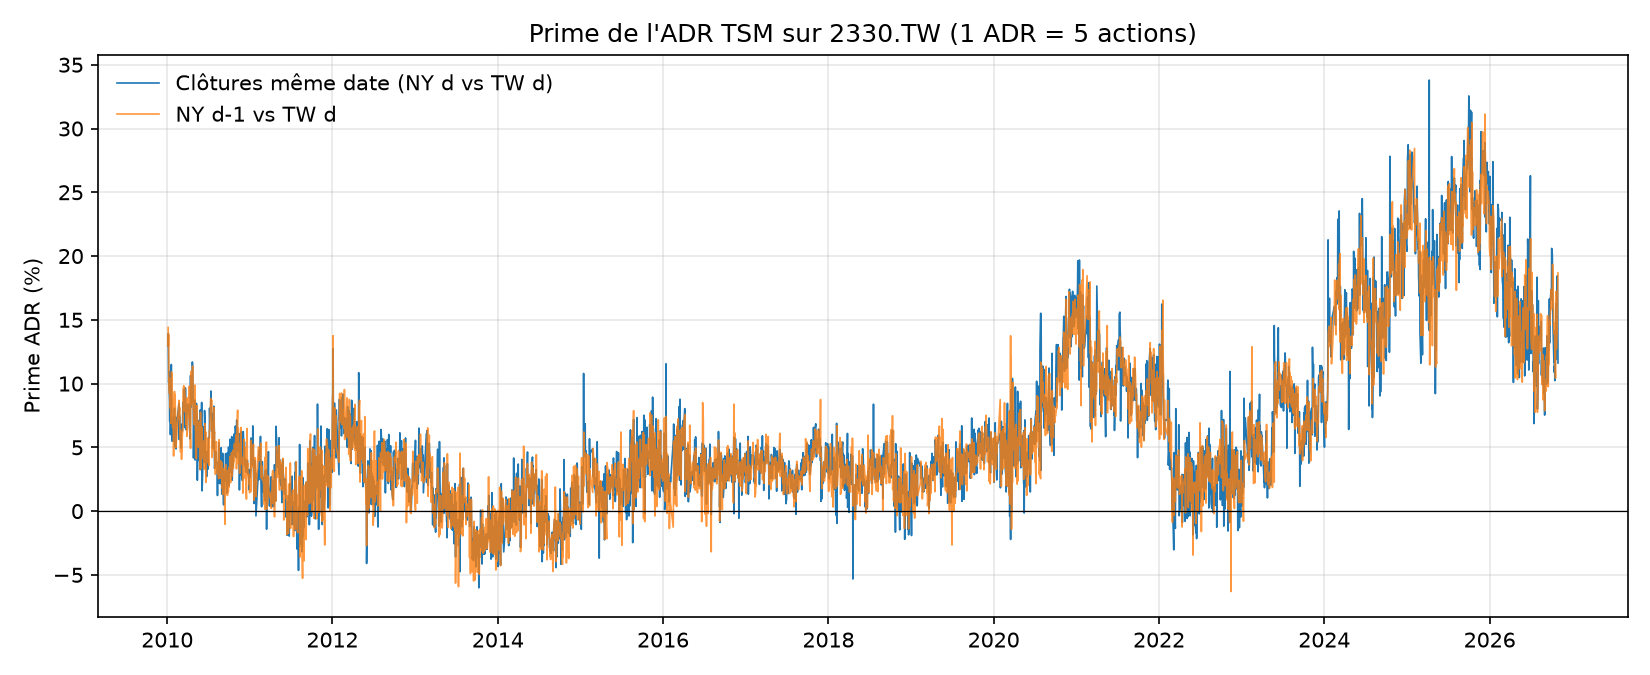
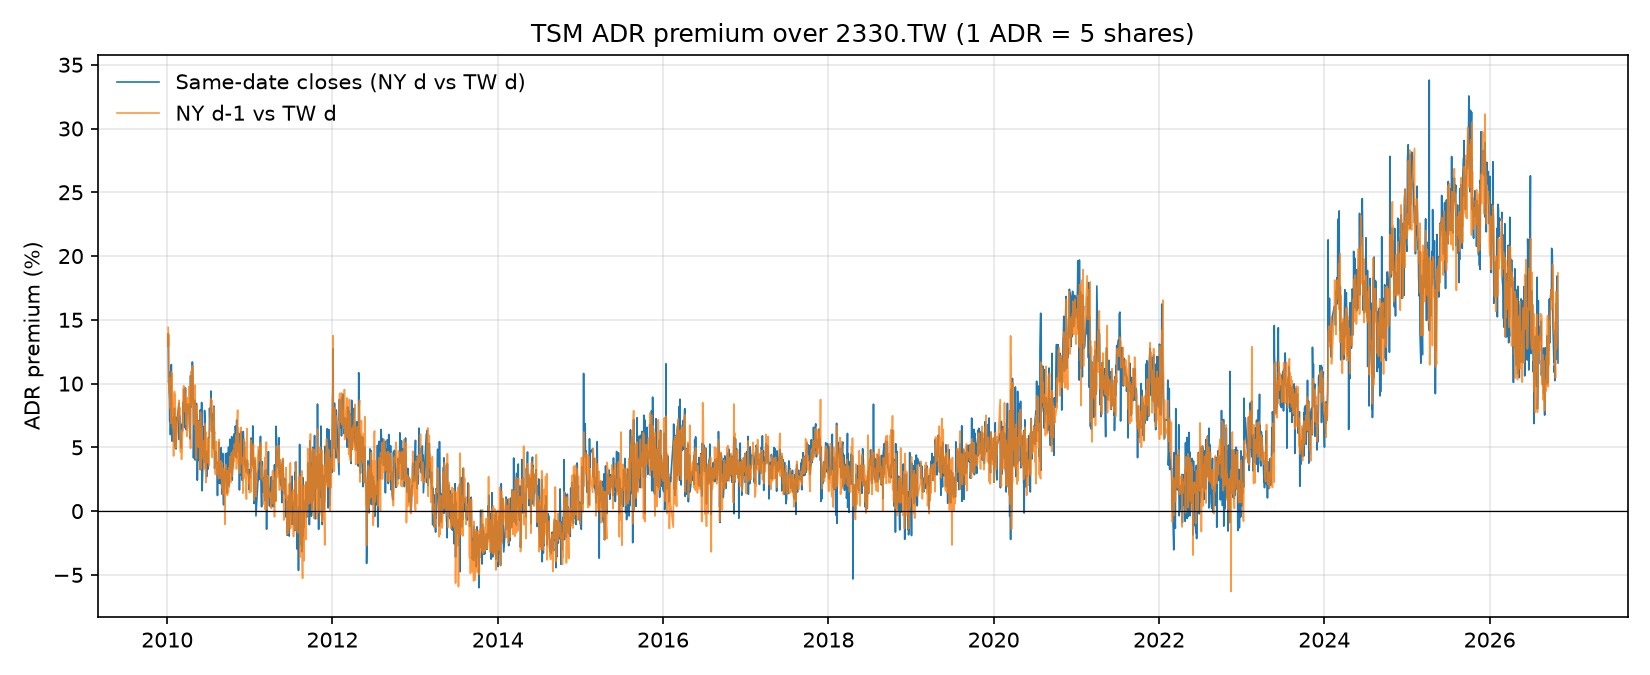
Translate build_premium output to English
Translate the docstring, console messages and chart labels, then regenerate
both figures. The "before" figure changes only through its labels.

Changed region(s): [[0.0927, 0.0933, 0.34, 0.1867], [0.3091, 0.0311, 0.7418, 0.0622], [0.0, 0.3733, 0.0309, 0.6222]]

diff --git a/scripts/build_premium.py b/scripts/build_premium.py
@@ -1,6 +1,6 @@
-"""Étape 1 : télécharge les données, construit la prime (2 définitions), sauvegarde et trace.
+"""Step 1: download the data, build the premium (2 definitions), save and plot.
 
-Usage : python scripts/build_premium.py [--refresh] [--start 2010-01-01] [--no-clean]
+Usage: python scripts/build_premium.py [--refresh] [--start 2010-01-01] [--no-clean]
 """
 import argparse
 import sys
@@ -42,22 +42,22 @@ def main() -> None:
         prev.to_csv(ROOT / "data" / "premium_prev_ny.csv")
 
     diag = asynchrony_diagnostics(same, prev)
-    print("\nDiagnostic d'asynchronie\n", diag.round(4).to_string())
-    print(f"\nDernière prime (prev_ny) : {prev['premium'].iloc[-1]:.2%} au {prev.index[-1].date()}")
+    print("\nAsynchrony diagnostics\n", diag.round(4).to_string())
+    print(f"\nLatest premium (prev_ny): {prev['premium'].iloc[-1]:.2%} on {prev.index[-1].date()}")
 
     fig, ax = plt.subplots(figsize=(11, 4.5))
-    ax.plot(same.index, same["premium"] * 100, lw=0.8, label="Clôtures même date (NY d vs TW d)")
+    ax.plot(same.index, same["premium"] * 100, lw=0.8, label="Same-date closes (NY d vs TW d)")
     ax.plot(prev.index, prev["premium"] * 100, lw=0.8, alpha=0.8, label="NY d-1 vs TW d")
     ax.axhline(0, color="black", lw=0.6)
-    ax.set_ylabel("Prime ADR (%)")
-    ax.set_title("Prime de l'ADR TSM sur 2330.TW (1 ADR = 5 actions)")
+    ax.set_ylabel("ADR premium (%)")
+    ax.set_title("TSM ADR premium over 2330.TW (1 ADR = 5 shares)")
     ax.legend(frameon=False)
     ax.grid(alpha=0.3)
     fig.tight_layout()
     name = "premium_raw_with_fx_errors.png" if args.no_clean else "premium_history.png"
     out = ROOT / "figures" / name
     fig.savefig(out, dpi=150)
-    print(f"Graphique : {out}")
+    print(f"Chart: {out}")
 
 
 if __name__ == "__main__":
